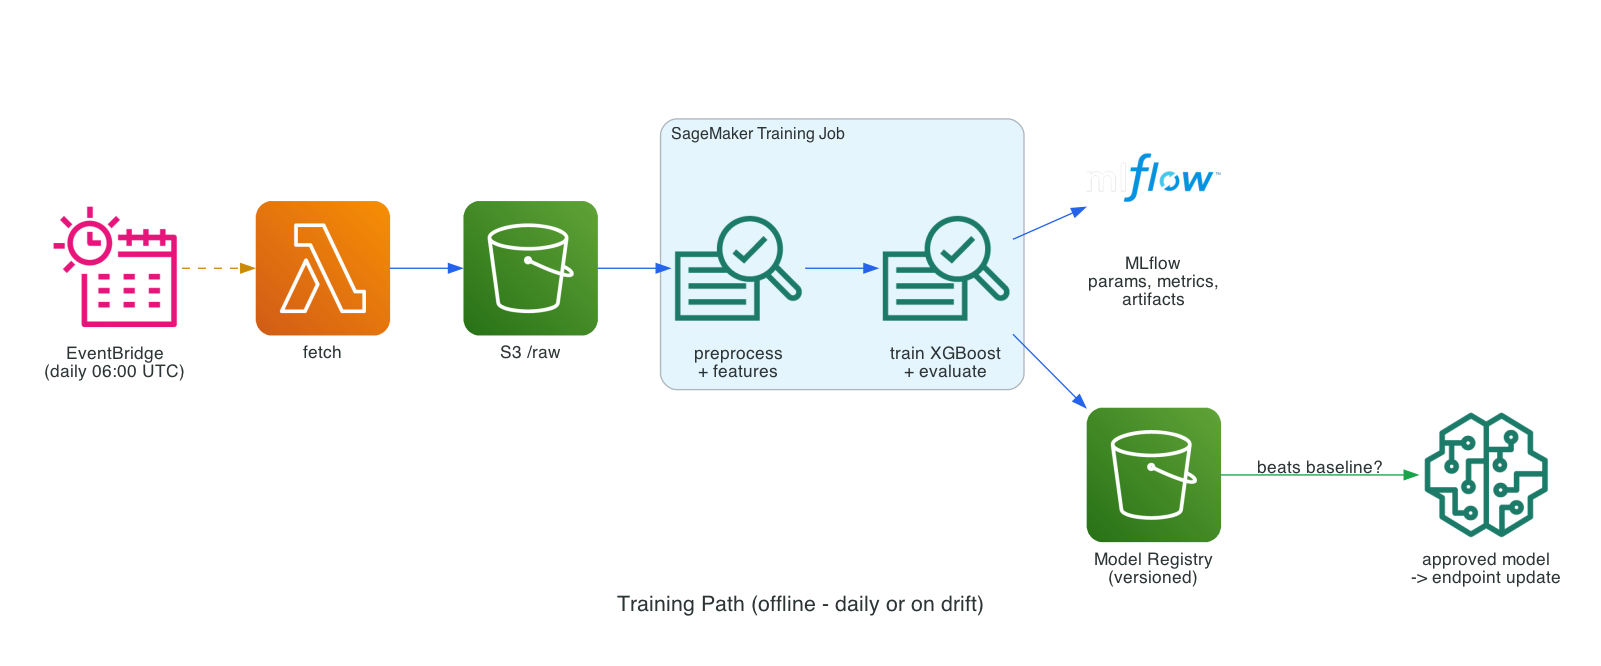
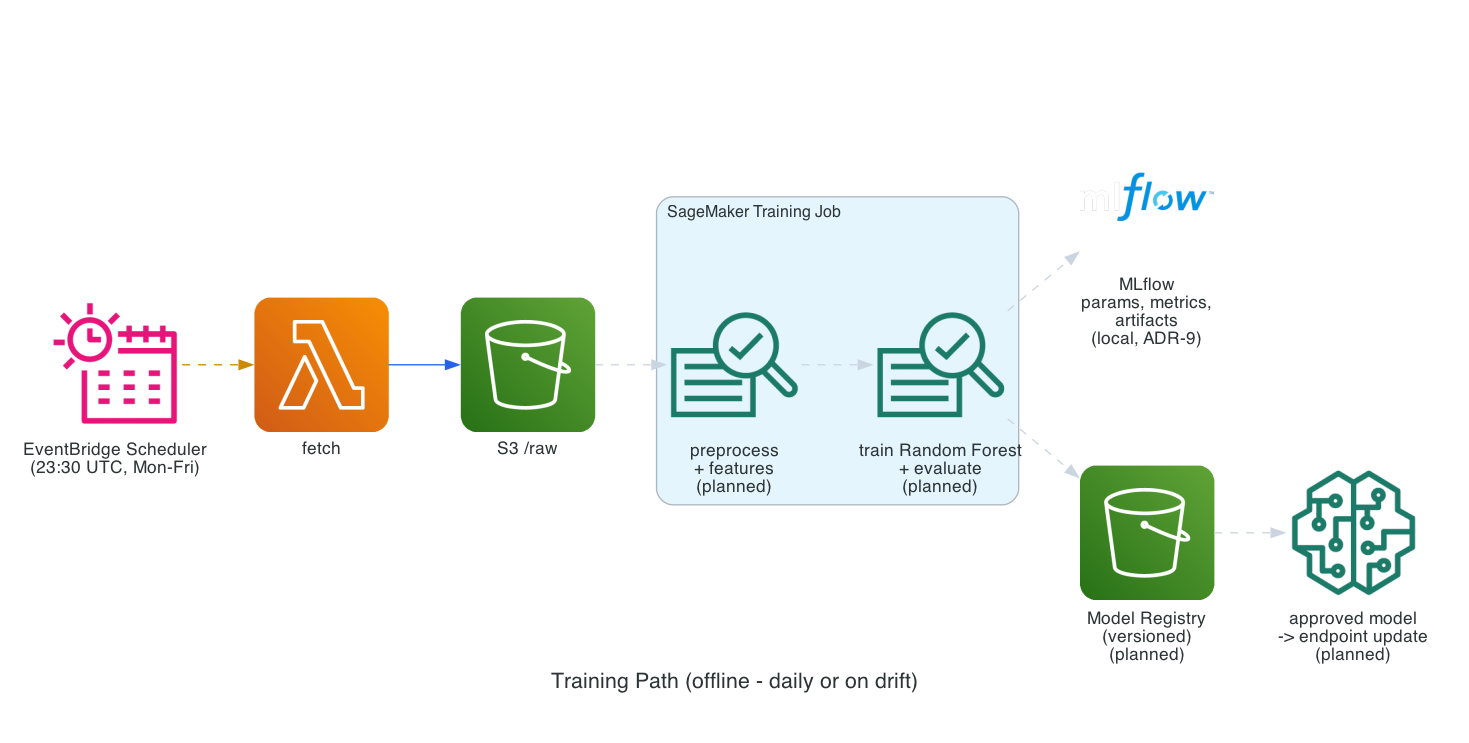
Say on the diagrams what is deployed and what is designed
The architecture is unchanged - it is the design agreed before any of it was
built, and it stays. What the diagrams did not say is how much of it is
actually provisioned, which quietly claims more than is true. Every component
that exists only on paper now carries (planned), and the edges into it are
drawn faintly, so an incomplete path is visible at a glance rather than having
to be traced node by node.

That keeps one diagram instead of two, and it answers the first question
anyone asks about an architecture picture: does this run?

The inference path also now shows what actually serves a request - the facade
loads model.tar.gz from S3 once per cold start and predicts in-process - with
the SageMaker endpoint beside it as the designed path, one environment
variable away (ADR-15).

Two factual errors fixed while in there, neither about deployment:

- the schedule was labelled "daily 06:00 UTC"; it is 23:30 UTC, weekdays only
- the training job was labelled "train XGBoost"; the promoted model is a
  random forest, and XGBoost was one of the four candidates it beat

MLflow is marked "(local, ADR-9)" rather than planned. It is not a missing AWS
service - running it without a tracking server was the decision.

Changed region(s): [[0.0306, 0.1802, 0.9803, 0.9009], [0.3676, 0.9009, 0.6433, 0.9309], [0.0, 0.6006, 0.1532, 0.6607]]

diff --git a/docs/diagrams/architecture.py b/docs/diagrams/architecture.py
@@ -38,6 +38,22 @@ GRAPH_ATTR = {
 DATA = Edge(color="#2563eb")
 TRIGGER = Edge(color="#ca8a04", style="dashed")
 
+# Deployment status, marked on the node rather than left to the reader.
+#
+# The architecture below is the design, agreed before any of it was built, and
+# it is unchanged. What changes month to month is how much of it is actually
+# provisioned - and a diagram that does not say which is which quietly claims
+# more than it should. Nodes carrying PLANNED are designed and not yet
+# deployed; everything else is live and can be curled.
+#
+# This is cheaper to maintain than two diagrams, and it is the honest answer
+# to "does this run?", which is the first question anyone asks.
+PLANNED = "\n(planned)"
+
+# Edges into something planned are drawn faintly, so an incomplete path is
+# visible at a glance instead of having to be traced node by node.
+PLANNED_EDGE = Edge(color="#cbd5e1", style="dashed")
+
 
 def overview() -> None:
     """The whole system on one page - the slide you present first."""
@@ -58,49 +74,51 @@ def overview() -> None:
             raw = S3("S3 /raw\n(Parquet)")
 
         with Cluster("Training (offline)"):
-            training = SagemakerTrainingJob("SageMaker\nTraining Job")
-            mlflow = Mlflow("MLflow\nTracking")
+            training = SagemakerTrainingJob("SageMaker\nTraining Job" + PLANNED)
+            mlflow = Mlflow("MLflow\nTracking\n(local, ADR-9)")
             registry = S3("S3 /model\n+ Model Registry")
 
         with Cluster("Serving (online)"):
             gateway = APIGateway("API Gateway")
             facade = Lambda("predict\n(facade)")
-            endpoint = SagemakerModel("SageMaker\nServerless Endpoint")
+            endpoint = SagemakerModel("SageMaker\nServerless Endpoint" + PLANNED)
 
         with Cluster("Observability"):
             logs = Cloudwatch("CloudWatch\nMetrics + Logs")
-            drift = Lambda("drift-check\n(PSI / KS test)")
-            alarm = CloudwatchAlarm("Alarm")
-            sns = SimpleNotificationServiceSns("SNS\n(e-mail)")
+            drift = Lambda("drift-check\n(PSI / KS test)" + PLANNED)
+            alarm = CloudwatchAlarm("Alarm" + PLANNED)
+            sns = SimpleNotificationServiceSns("SNS\n(e-mail)" + PLANNED)
 
         with Cluster("Delivery"):
-            actions = GithubActions("GitHub Actions")
+            actions = GithubActions("GitHub Actions" + PLANNED)
             ecr = ECR("ECR")
 
-        config = SystemsManagerParameterStore("Parameter Store\n(config)")
+        config = SystemsManagerParameterStore("Parameter Store\n(config)" + PLANNED)
 
         # Ingestion -> storage
         schedule >> TRIGGER >> fetch >> DATA >> raw
 
         # Training path
-        raw >> DATA >> training
-        training >> DATA >> mlflow
-        training >> DATA >> registry
-        registry >> DATA >> endpoint
+        raw >> PLANNED_EDGE >> training
+        training >> PLANNED_EDGE >> mlflow
+        training >> PLANNED_EDGE >> registry
+        registry >> PLANNED_EDGE >> endpoint
 
         # Inference path
-        users >> DATA >> gateway >> DATA >> facade >> DATA >> endpoint
+        users >> DATA >> gateway >> DATA >> facade
+        facade >> PLANNED_EDGE >> endpoint
 
         # Observability and the retraining loop
         facade >> DATA >> logs
-        endpoint >> DATA >> logs
-        logs >> DATA >> drift
-        drift >> TRIGGER >> alarm >> TRIGGER >> sns
-        drift >> Edge(color="#dc2626", style="dashed", label="drift detected") >> training
+        endpoint >> PLANNED_EDGE >> logs
+        logs >> PLANNED_EDGE >> drift
+        drift >> PLANNED_EDGE >> alarm >> PLANNED_EDGE >> sns
+        drift >> PLANNED_EDGE >> training
 
         # Cross-cutting
-        config >> Edge(style="dotted", color="#6b7280") >> facade
-        actions >> DATA >> ecr >> DATA >> facade
+        config >> PLANNED_EDGE >> facade
+        actions >> PLANNED_EDGE >> ecr
+        ecr >> DATA >> facade
 
 
 def training_path() -> None:
@@ -115,22 +133,23 @@ def training_path() -> None:
         direction="LR",
         graph_attr=GRAPH_ATTR,
     ):
-        schedule = EventbridgeScheduler("EventBridge\n(daily 06:00 UTC)")
+        schedule = EventbridgeScheduler("EventBridge Scheduler\n(23:30 UTC, Mon-Fri)")
         fetch = Lambda("fetch")
         raw = S3("S3 /raw")
 
         with Cluster("SageMaker Training Job"):
-            prep = SagemakerTrainingJob("preprocess\n+ features")
-            train = SagemakerTrainingJob("train XGBoost\n+ evaluate")
+            prep = SagemakerTrainingJob("preprocess\n+ features" + PLANNED)
+            train = SagemakerTrainingJob("train Random Forest\n+ evaluate" + PLANNED)
 
-        mlflow = Mlflow("MLflow\nparams, metrics,\nartifacts")
-        registry = S3("Model Registry\n(versioned)")
-        approved = SagemakerModel("approved model\n-> endpoint update")
+        mlflow = Mlflow("MLflow\nparams, metrics,\nartifacts\n(local, ADR-9)")
+        registry = S3("Model Registry\n(versioned)" + PLANNED)
+        approved = SagemakerModel("approved model\n-> endpoint update" + PLANNED)
 
-        schedule >> TRIGGER >> fetch >> DATA >> raw >> DATA >> prep >> DATA >> train
-        train >> DATA >> mlflow
-        train >> DATA >> registry
-        registry >> Edge(label="beats baseline?", color="#16a34a") >> approved
+        schedule >> TRIGGER >> fetch >> DATA >> raw
+        raw >> PLANNED_EDGE >> prep >> PLANNED_EDGE >> train
+        train >> PLANNED_EDGE >> mlflow
+        train >> PLANNED_EDGE >> registry
+        registry >> PLANNED_EDGE >> approved
 
 
 def inference_path() -> None:
@@ -144,14 +163,21 @@ def inference_path() -> None:
     ):
         client = Users("Client")
         gateway = APIGateway("API Gateway\nPOST /predict")
-        facade = Lambda("predict\nvalidate + build features")
-        endpoint = SagemakerModel("SageMaker\nServerless Inference")
+        facade = Lambda("predict\nvalidate + build features\n+ run the model")
+        artifact = S3("S3 /models/current\nmodel.tar.gz")
+        endpoint = SagemakerModel("SageMaker\nServerless Inference" + PLANNED)
         logs = Cloudwatch("CloudWatch\nlatency, errors,\npredictions")
 
-        client >> DATA >> gateway >> DATA >> facade >> DATA >> endpoint
-        endpoint >> Edge(color="#16a34a", label="prediction") >> facade
-        facade >> Edge(color="#16a34a") >> gateway >> Edge(color="#16a34a") >> client
+        # What runs today: the facade loads the artifact once per cold start
+        # and predicts in-process. SAGEMAKER_ENDPOINT is the switch (ADR-15).
+        client >> DATA >> gateway >> DATA >> facade
+        artifact >> Edge(color="#2563eb", label="once per cold start") >> facade
+        facade >> Edge(color="#16a34a", label="prediction") >> gateway
+        gateway >> Edge(color="#16a34a") >> client
         facade >> Edge(style="dotted", color="#6b7280") >> logs
+
+        # The designed production path, one environment variable away.
+        facade >> PLANNED_EDGE >> endpoint
 
 
 if __name__ == "__main__":
